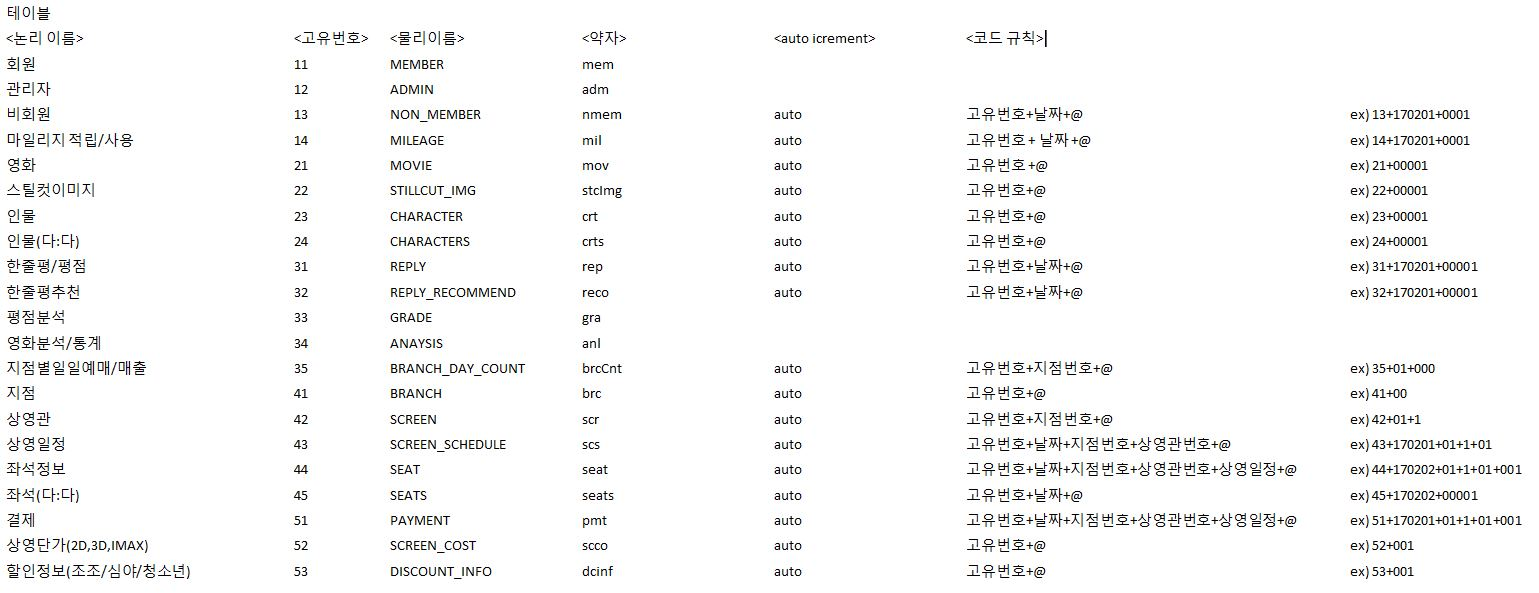
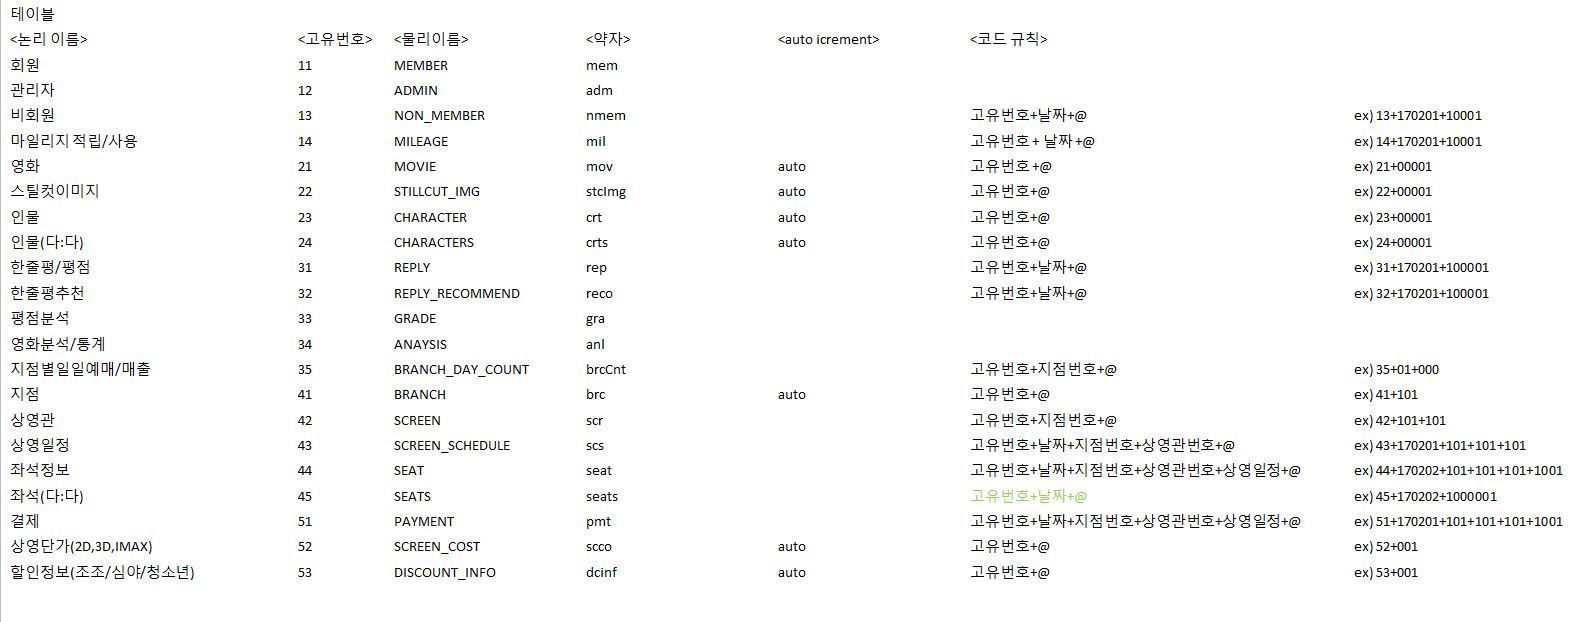
코드(PK) 생성 테스트 화면 코드(PK) 규칙 파일

diff --git a/MovieBooking/src/main/java/kr/co/cinema/HomeService.java b/MovieBooking/src/main/java/kr/co/cinema/HomeService.java
@@ -3,21 +3,32 @@ package kr.co.cinema;
 import java.text.SimpleDateFormat;
 import java.util.Date;
 
+import org.slf4j.Logger;
+import org.slf4j.LoggerFactory;
 import org.springframework.beans.factory.annotation.Autowired;
 import org.springframework.stereotype.Service;
 
+import kr.co.cinema.dto.BranchDayCount;
+import kr.co.cinema.dto.Screen;
 
 @Service
 public class HomeService {
+	
+	private static final Logger logger = LoggerFactory.getLogger(HomeService.class);
+	
 	@Autowired
 	private HomeDao homeDao;
 	
+	//******코드(PK) 생성 시작******
 	
-	String resultCode = "";									// 반환할 코드 초기화
-	// 코드 생성하는 메서드(비회원,마일리지,한줄평/평점
+	static private String resultCode = "";							// 반환할 코드 초기화
+	// 코드 생성하는 메서드(비회원,마일리지,한줄평/평점,좌석(다:다))
 	public String makeCode(String kind){
+		logger.debug("HomeService makeCode() 진입");
 		
+		System.out.println("HomeService makeCode() kind : "+kind);
 		String getCode = homeDao.selectOneCode(kind);		// db에서 마지막으로 입력된 코드 값 가져오기
+		logger.debug("HomeService makeCode() getCode : "+getCode);
 		String getFirst= getCode.substring(0,2);			// 코드에서 고유번호 추출
 		String getDate = getCode.substring(2, 8);			// 코드에서 날짜 추출
 		String getNum= getCode.substring(8);				// 코드에서 숫자 추출
@@ -53,7 +64,9 @@ public class HomeService {
 				case "replyRecommend" :
 					resultCode = "32"+dDay+"100001";
 					break;
-					
+				case "seats" :
+					resultCode = "45"+dDay+"1000001";
+					break;
 				default : break;
 				}
 		
@@ -61,6 +74,27 @@ public class HomeService {
 		System.out.println("최종 resultCode : "+resultCode);
 		return resultCode;
 	}
+	// screen code 만들기
+	public String madeCode(Screen screen){
+		
+		int getBrcCode=screen.getBrcCode();											// 입력값에서 brcCode 가져오기
+		String getScreenCode = homeDao.selectOneScreenCode(screen.getBrcCode());	// brcCode에 해당하는 최신의 screenCode 가져오기  42+101+101
+		String screenNum = getScreenCode.substring(5);								// screenCode에서 번호 추출
+		int resultNum = Integer.parseInt(screenNum)+1;								// 추출한 번호에 +1로 다음번호 생성
+		System.out.println("resultNum : "+resultNum);
+		String brcCode = Integer.toString(getBrcCode);								// brcCode String형으로 변환
+		String brcNum= brcCode.substring(2);										// brcCode에서 지점 번호만 추출
+		System.out.println("brcNum : "+brcNum);
 
+		resultCode = "42"+brcNum+resultNum;											// 반환 코드 생성
+		System.out.println(resultCode);
+
+		return resultCode;
+	}
+	
+	public String madeCode(BranchDayCount branchDayCount){
+		
+		return null;
+	}
 
 }

diff --git a/MovieBooking/src/main/java/kr/co/cinema/HomeController.java b/MovieBooking/src/main/java/kr/co/cinema/HomeController.java
@@ -8,6 +8,7 @@ import org.springframework.stereotype.Controller;
 import org.springframework.ui.Model;
 import org.springframework.web.bind.annotation.RequestMapping;
 import org.springframework.web.bind.annotation.RequestMethod;
+import org.springframework.web.bind.annotation.RequestParam;
 
 
 @Controller
@@ -15,6 +16,21 @@ public class HomeController {
 	
 	private static final Logger logger = LoggerFactory.getLogger(HomeController.class);
 
+	//진남이가 쓰는 테이스 페이지 사용 ㄴㄴ
+	@RequestMapping(value="/codeTest", method=RequestMethod.GET)
+	public String codeTest(){
+		return "payment/codeTest";
+	}
+	@RequestMapping(value="/codeTest", method=RequestMethod.POST)
+	public String codeTest(@RequestParam("kind") String kind, Model model){
+		logger.debug("/codeTest Post 진입");
+		System.out.println("homeController kind : "+kind);
+		HomeService homeService = new HomeService();
+		String resultCode = homeService.makeCode(kind);
+		model.addAttribute("resultCode",resultCode);
+		return "payment/codeTest";
+	}
+	
 	//정빈이가쓰는 테스트 페이지 사용 ㄴㄴ
 	@RequestMapping(value = "/", method = RequestMethod.GET)
 	public String home(Locale locale, Model model) {

diff --git a/MovieBooking/src/main/java/kr/co/cinema/HomeDao.java b/MovieBooking/src/main/java/kr/co/cinema/HomeDao.java
@@ -1,11 +1,14 @@
 package kr.co.cinema;
 
 import org.mybatis.spring.SqlSessionTemplate;
+import org.slf4j.Logger;
+import org.slf4j.LoggerFactory;
 import org.springframework.beans.factory.annotation.Autowired;
 import org.springframework.stereotype.Repository;
 
 @Repository
 public class HomeDao {
+	private static final Logger logger = LoggerFactory.getLogger(HomeDao.class);
 	
 	@Autowired
 	private SqlSessionTemplate sqlSession;
@@ -13,8 +16,13 @@ public class HomeDao {
 	
 	// 코드 생성을 위해 기존 코드 가져오는 메서드
 	public String selectOneCode(String kind){
+		logger.debug("HomeDao SelectOneCode() kind : "+kind);
 		return sqlSession.selectOne(NS+"selectCode",kind);
-		
+	}
+	
+	// 코드 생성을 위해 기존 스크린 코드 가져오는 메서드
+	public String selectOneScreenCode(int brcCode){
+		return sqlSession.selectOne(NS+"selectScreenCode", brcCode);
 	}
 	
 }
